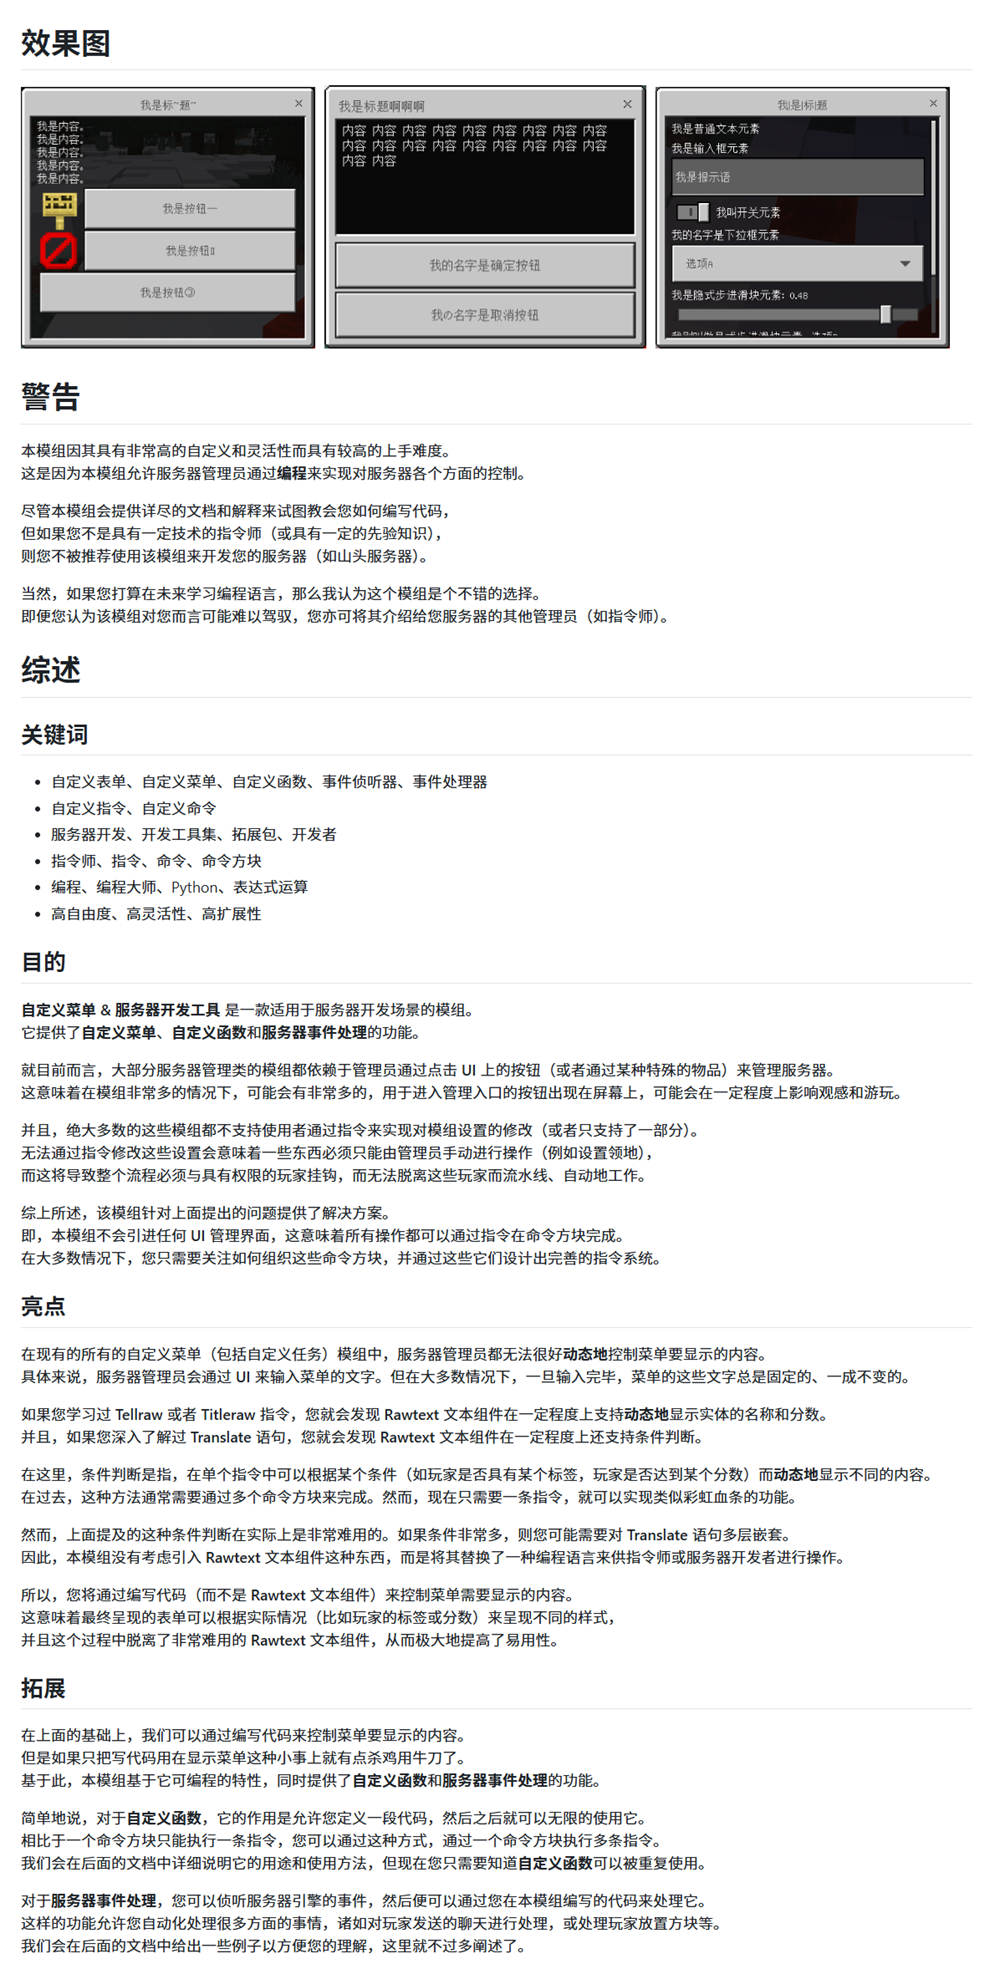
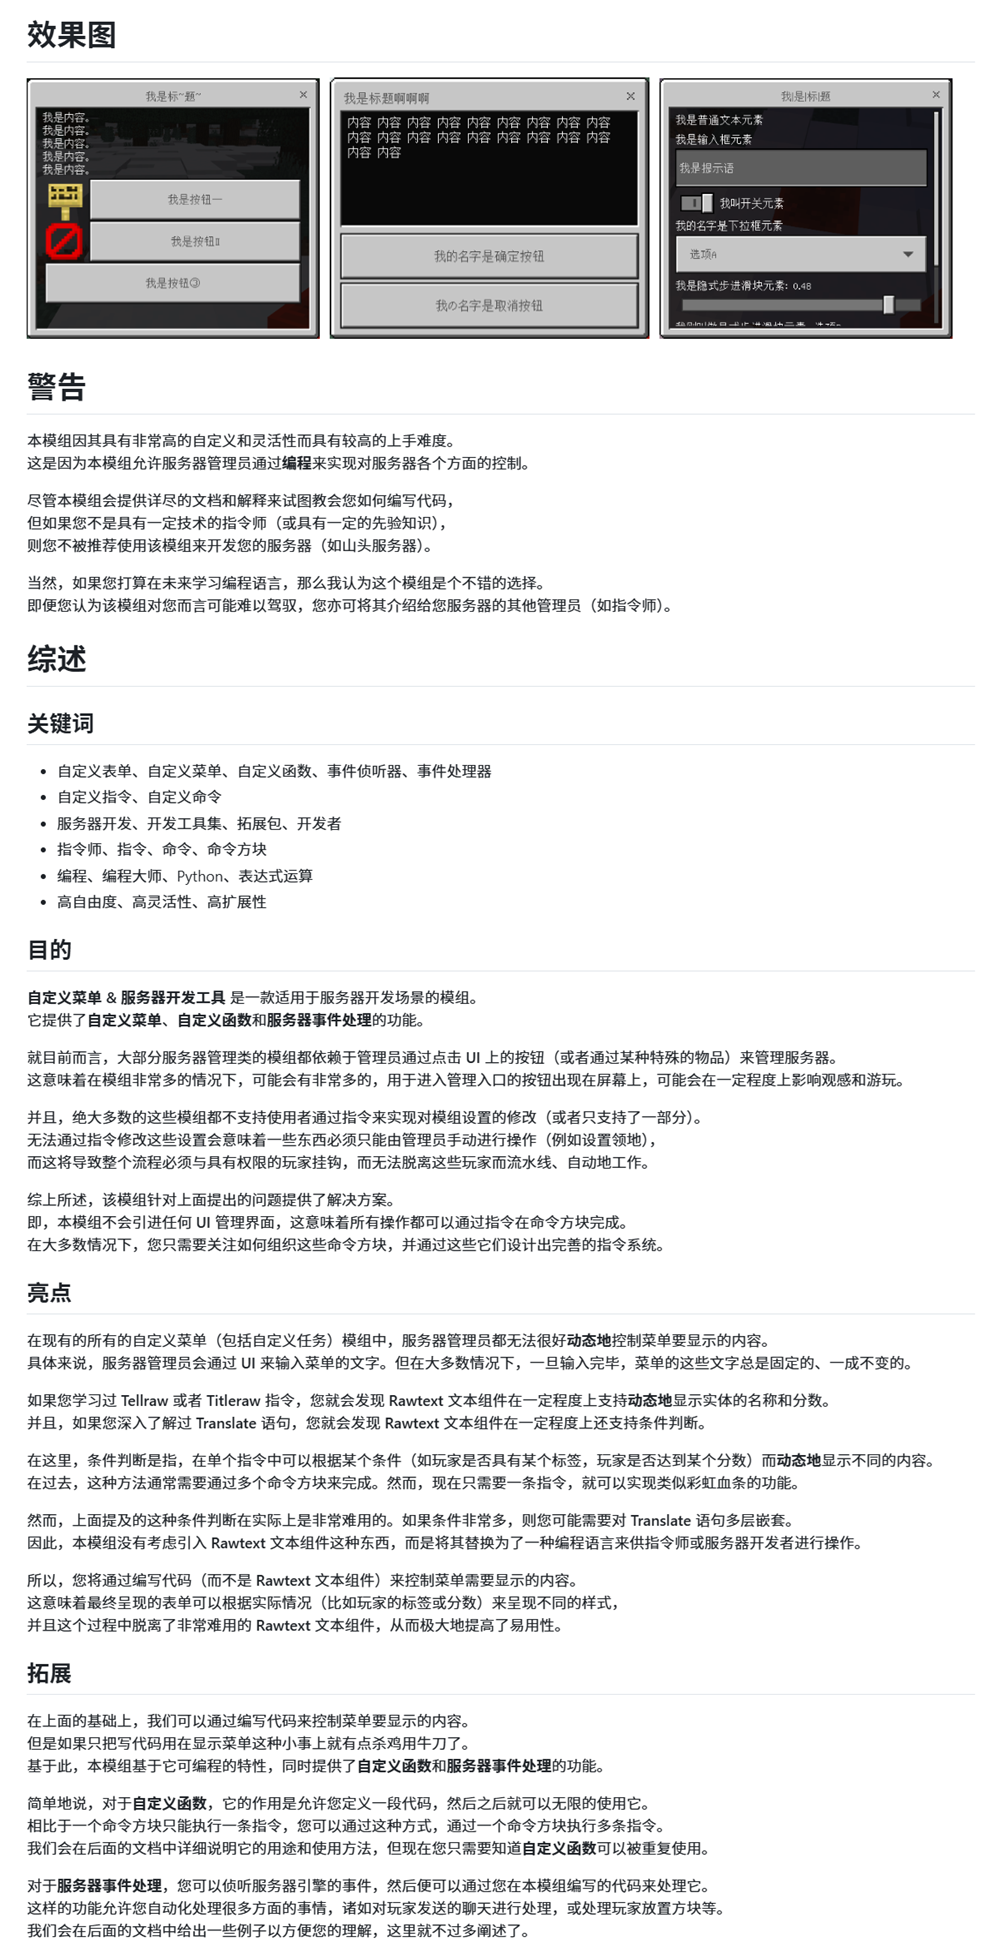
README: Minor changes

Changed region(s): [[0.0, 0.0, 0.961, 0.9974]]

diff --git a/README.md b/README.md
@@ -82,7 +82,7 @@
 在过去，这种方法通常需要通过多个命令方块来完成。然而，现在只需要一条指令，就可以实现类似彩虹血条的功能。
 
 然而，上面提及的这种条件判断在实际上是非常难用的。如果条件非常多，则您可能需要对 **Translate** 语句多层嵌套。<br/>
-因此，本模组没有考虑引入 **Rawtext** 文本组件这种东西，而是将其替换了一种编程语言来供指令师或服务器开发者进行操作。
+因此，本模组没有考虑引入 **Rawtext** 文本组件这种东西，而是将其替换为了一种编程语言来供指令师或服务器开发者进行操作。
 
 所以，您将通过编写代码（而不是 **Rawtext** 文本组件）来控制菜单需要显示的内容。<br/>
 这意味着最终呈现的表单可以根据实际情况（比如玩家的标签或分数）来呈现不同的样式，<br/>
